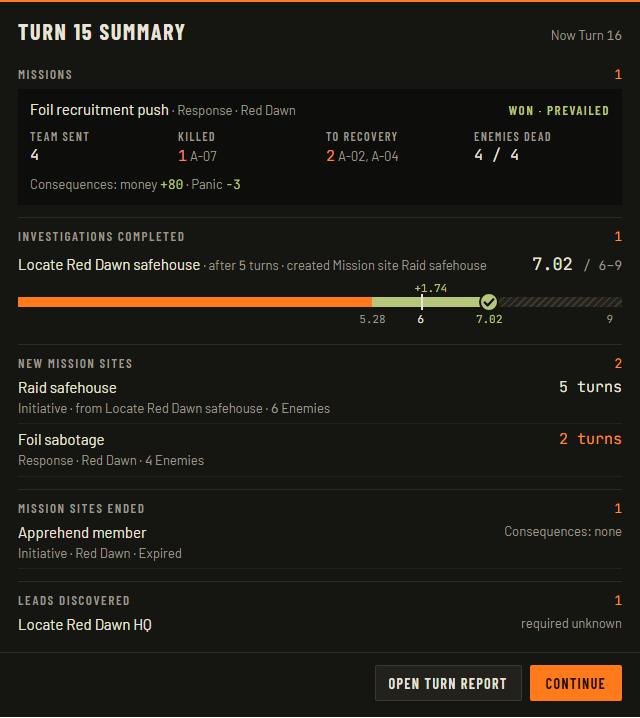
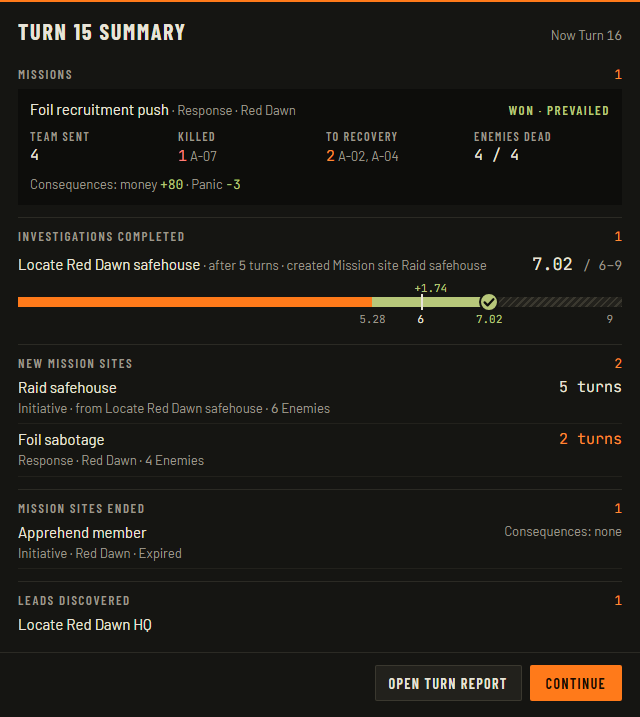
Turn Summary: list discovered Leads without the Required progress range
A Lead discovered in an Advance turn has no Investigation yet, so it is never
an Assessed Lead there and the range always read "unknown". The Leads View
shows the range once the Lead is Assessed. Re-export the Turn summary Artboard.

diff --git a/docs/specs/design/ui/screens/turn-summary.md b/docs/specs/design/ui/screens/turn-summary.md
@@ -44,8 +44,10 @@ list is exhaustive.
 4. **Mission sites ended:** each Mission site that became Expired or Cancelled, under the same Turn report section, with
    its MissionSiteArchetype's `name`, its kind, the lifecycle state it reached, and, for an Expired one, its
    [Consequences](../../mechanics/domain-model.md#leads-investigations-mission-sites-and-missions).
-5. **Leads discovered:** each Lead under [Turn report](../../mechanics/leads-and-progression.md#turn-report) in Leads and Progression, with its Required
-   progress range when it is an [Assessed Lead](../../mechanics/investigations.md#glossary), and otherwise that the range is unknown.
+5. **Leads discovered:** each Lead under [Turn report](../../mechanics/leads-and-progression.md#turn-report) in Leads and Progression, with its `name` only. Its
+   Required progress range is left out: a Lead discovered in the Advance turn has no Investigation yet, so it is never
+   an [Assessed Lead](../../mechanics/investigations.md#glossary) and the range is always unknown here. The [Leads View](leads-view.md) shows the range once the Lead
+   is an Assessed Lead.
 
 # Showing and dismissing
 
